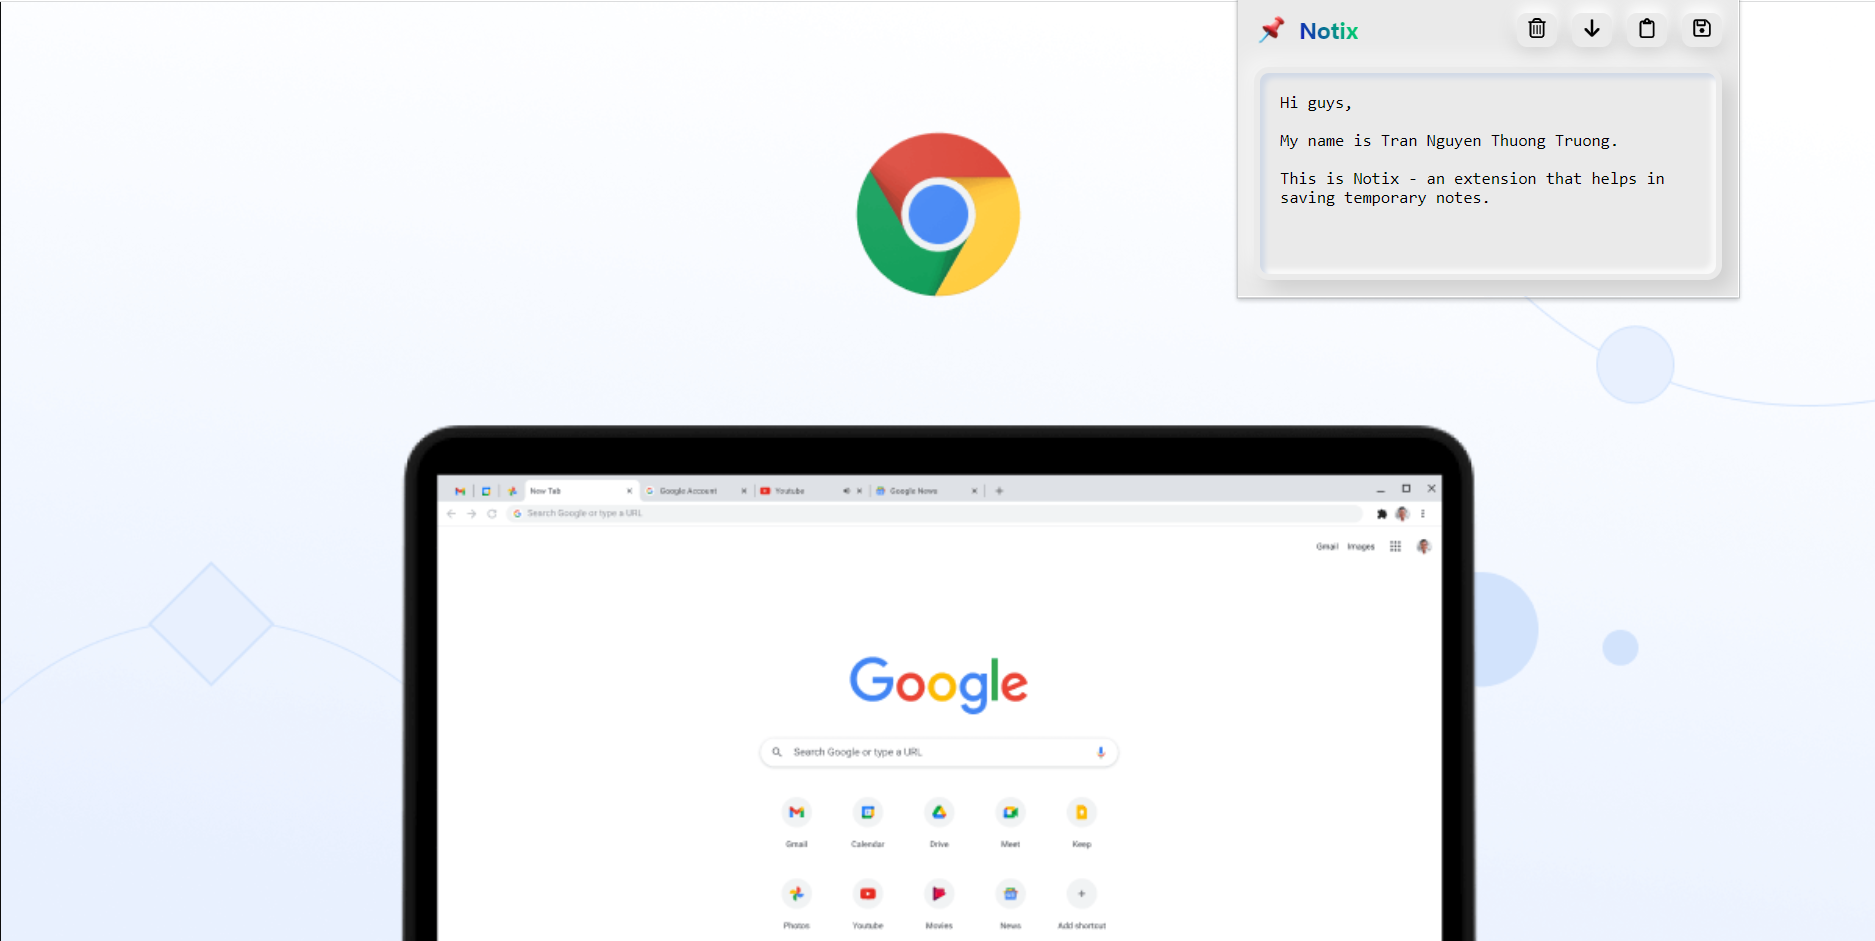
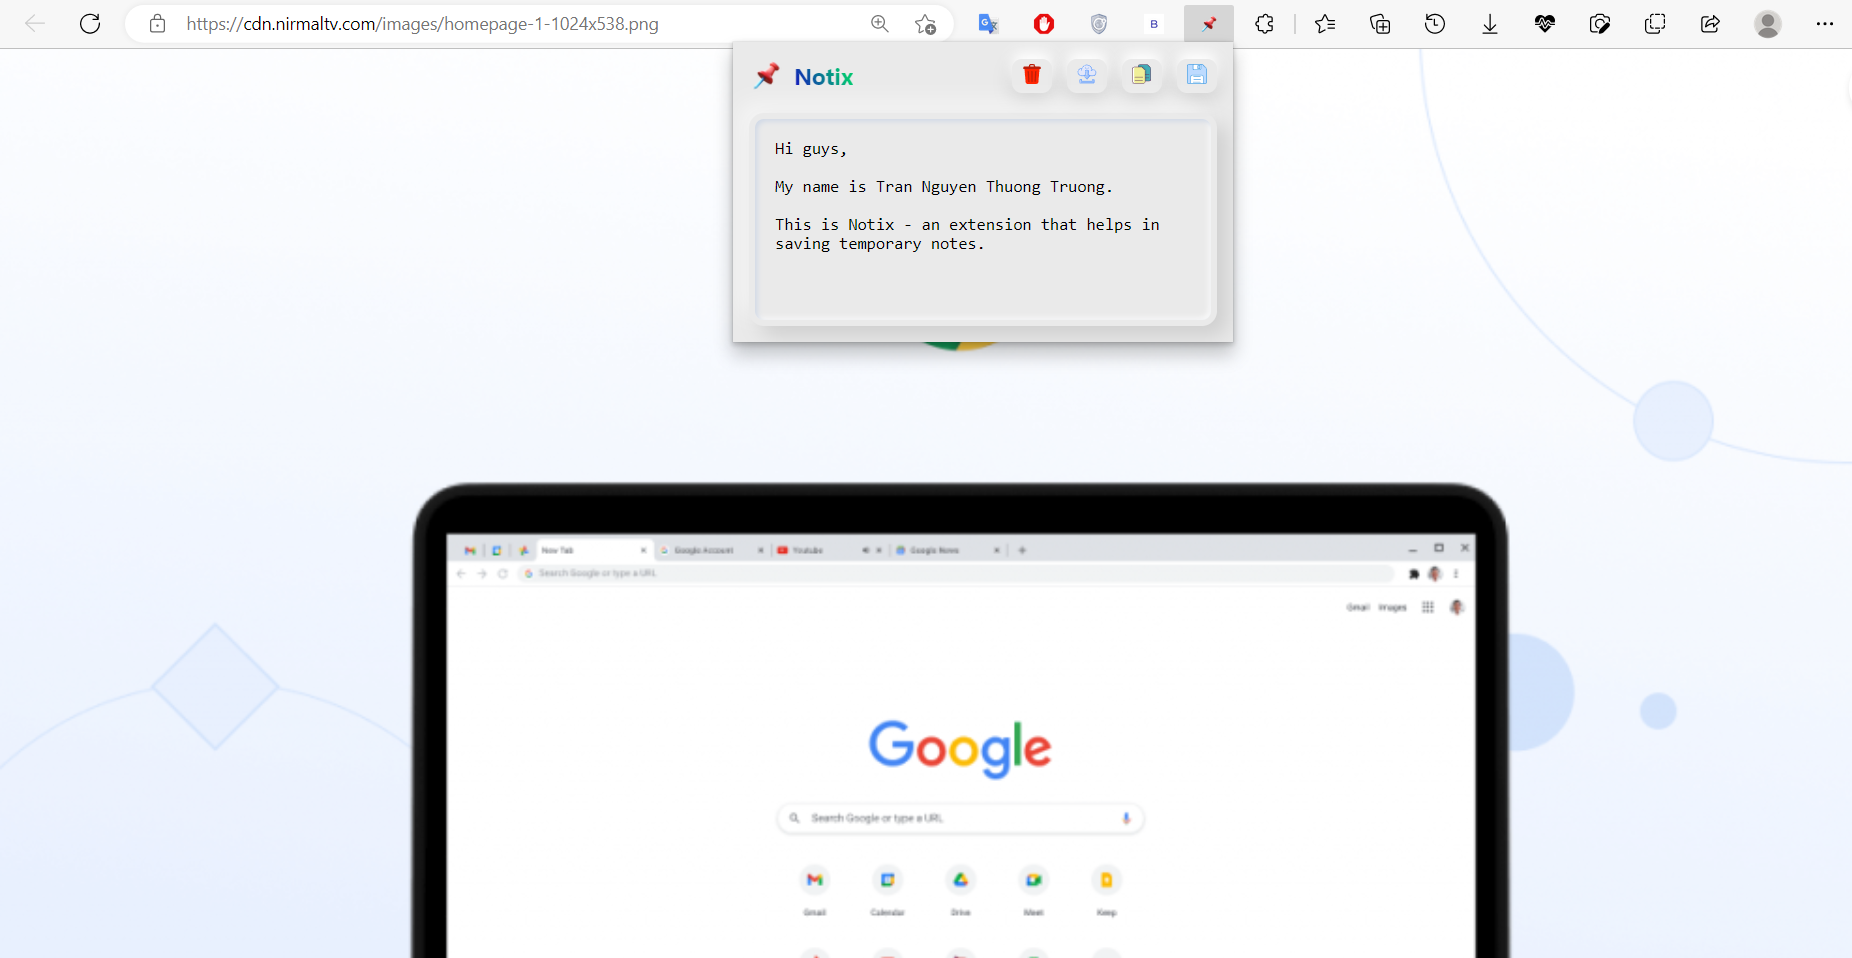
chore: update done

diff --git a/popup.html b/popup.html
@@ -1,6 +1,7 @@
 <!DOCTYPE html>
 <html>
-  <head>
+
+<head>
     <title>Notix</title>
     <meta charset="utf-8">
     <meta name="viewport" content="width=device-width, initial-scale=1">
@@ -10,31 +11,33 @@
     <link rel="stylesheet" href="popup.css">
     <meta name="author" content="Tran Nguyen Nguyen Thuong Truong">
     <meta name="description" content="Notix">
-  </head>
-  <body>
+</head>
+
+<body>
     <main>
-      <header>
-        <nav>
-          <img src="/icons/icon32.png" alt="logo" width="28" height="28">
-          <h2>Notix</h2>
-        </nav>
-        <ul>
-          <li id="delete" title="delete">
-            <img src="/icons/delete.svg" alt="delete_icon" title="delete">
-          </li>
-          <li id="download" title="download">
-            <img src="/icons/download.svg" alt="download_icon" title="download">
-          </li>
-          <li id="copy" title="copy">
-            <img src="/icons/copy.svg" alt="copy_icon" title="copy">
-          </li>
-          <li id="save" title="save">
-            <img src="/icons/save_false.svg" alt="save_icon" title="save">
-          </li>
-        </ul>
-      </header>
-      <textarea id="note"></textarea>
+        <header>
+            <nav>
+                <img src="/icons/icon32.png" alt="logo" width="28" height="28">
+                <h2>Notix</h2>
+            </nav>
+            <ul>
+                <li id="delete" title="delete">
+                    <img src="/icons/delete.svg" alt="delete_icon" title="delete">
+                </li>
+                <li id="download" title="download">
+                    <img src="/icons/download.svg" alt="download_icon" title="download">
+                </li>
+                <li id="copy" title="copy">
+                    <img src="/icons/copy.svg" alt="copy_icon" title="copy">
+                </li>
+                <li id="save" title="save">
+                    <img src="/icons/save.svg" alt="save_icon" title="save">
+                </li>
+            </ul>
+        </header>
+        <textarea id="note"></textarea>
     </main>
     <script src="popup.js"></script>
-  </body>
+</body>
+
 </html>

diff --git a/popup.js b/popup.js
@@ -5,8 +5,7 @@ let copyButton = document.getElementById("copy");
 let saveButton = document.getElementById("save");
 let images = document.querySelectorAll("ul>li>img")
 
-const SAVE_STATE_TRUE_IMG = "/icons/save_true.svg"
-const SAVE_STATE_FALSE_IMG = "/icons/save_false.svg"
+const SAVE_STATE_IMG = "/icons/save.svg"
 const DONE_STATE_IMG = "/icons/tick.svg"
 const COPY_STATE_IMG = "/icons/copy.svg"
 const DELETE_STATE_IMG = "/icons/delete.svg"
@@ -66,6 +65,6 @@ copyButton.addEventListener("click", () => {
 saveButton.addEventListener("click", () => {
     let note = noteInput.value;
     chrome.storage.sync.set({ note: note }, () => {
-        images[3].src = SAVE_STATE_TRUE_IMG
+        images[3].src = DONE_STATE_IMG
     });
 });

diff --git a/.github/ISSUE_TEMPLATE/feature_request.md b/.github/ISSUE_TEMPLATE/feature_request.md
@@ -1,0 +1,20 @@
+---
+name: Feature request
+about: Suggest an idea for this project
+title: ""
+labels: enhancement
+assignees: ""
+---
+
+**Is your feature request related to a problem? Please describe.**
+A clear and concise description of what the problem is. Ex. I'm always frustrated when [...]
+
+**Describe the solution you'd like**
+A clear and concise description of what you want to happen.
+
+**Describe alternatives you've considered**
+A clear and concise description of any alternative solutions or features you've considered.
+
+**Additional context**
+Add any other context or screenshots about the feature request here.
+1

diff --git a/.github/ISSUE_TEMPLATE/bug_report.md b/.github/ISSUE_TEMPLATE/bug_report.md
@@ -1,0 +1,28 @@
+---
+name: Bug report
+about: Create a report to help us improve
+title: ""
+labels: bug
+assignees: ""
+---
+
+**Describe the bug**
+A clear and concise description of what the bug is.
+
+**To Reproduce**
+Steps to reproduce the behavior:
+
+1. Go to '...'
+2. Click on '....'
+3. Scroll down to '....'
+4. See error
+
+**Expected behavior**
+A clear and concise description of what you expected to happen.
+
+**Screenshots**
+If applicable, add screenshots to help explain your problem.
+
+**Additional context**
+Add any other context about the problem here.
+1
